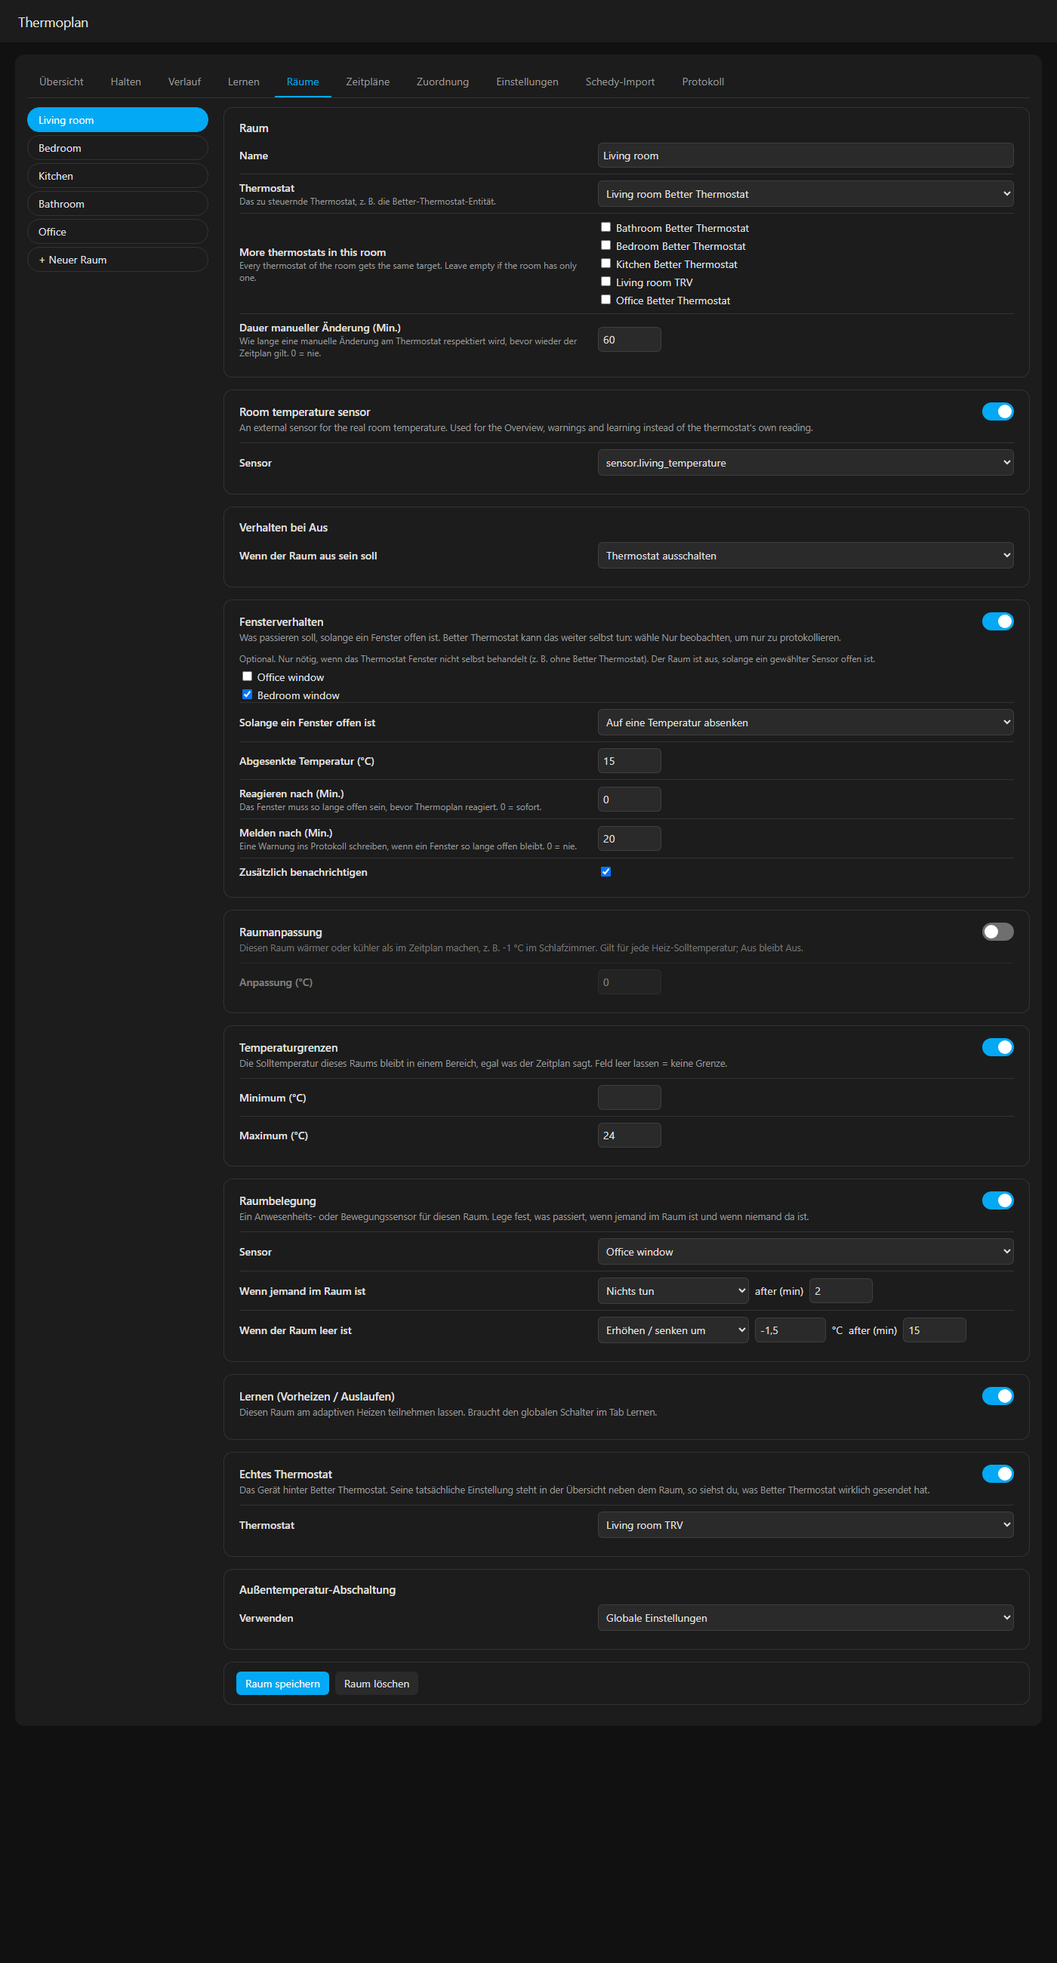
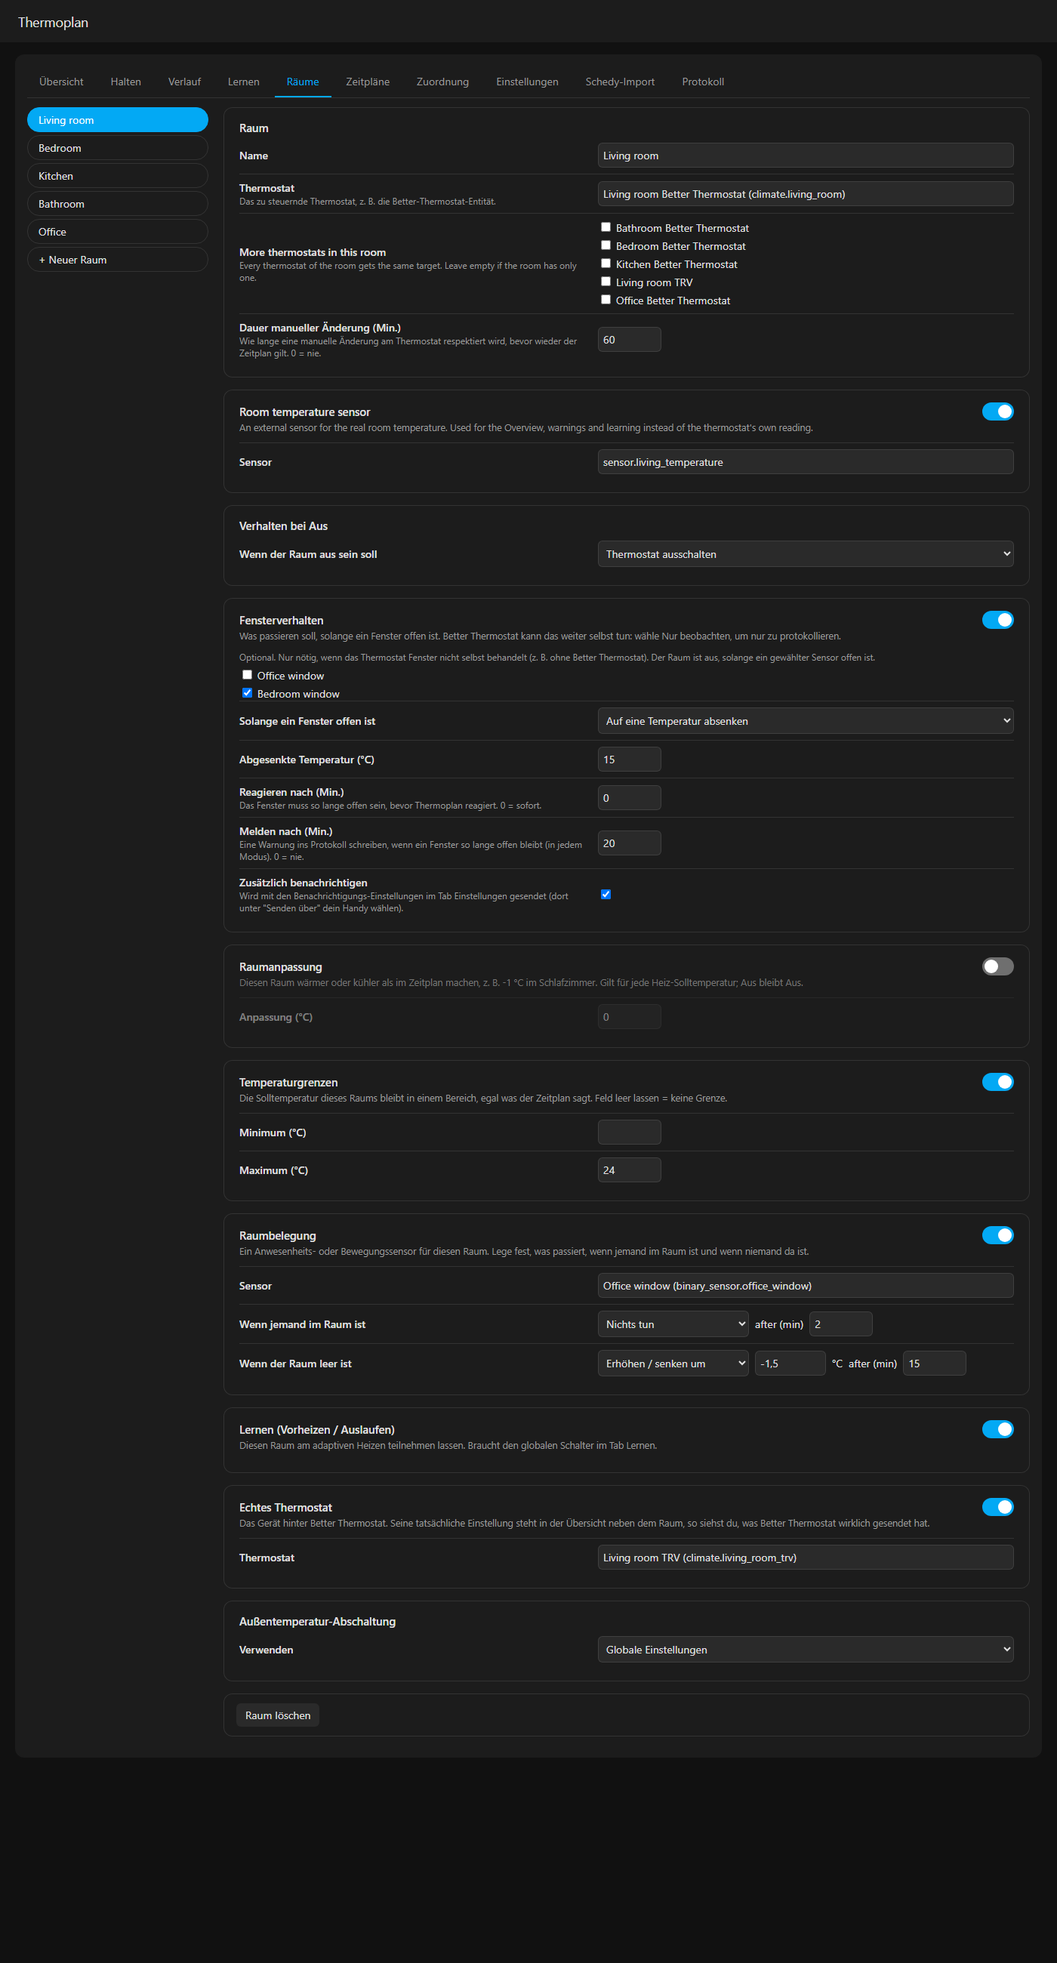
UI polish: searchable pickers, save button only when changed, clearer labels, plans overflow fix

diff --git a/custom_components/thermoplan/frontend/thermoplan-settings.js b/custom_components/thermoplan/frontend/thermoplan-settings.js
@@ -34,7 +34,7 @@ addStrings(
     fd_workday: "Workday sensor", fd_workday_help: "The Workday integration. Off on a normal working weekday means a holiday; weekends are not affected.",
     fd_holiday: "Holiday sensor", fd_holiday_help: "A binary sensor that is on on public holidays.",
     fd_calendar: "Calendar", fd_calendar_help: "A free day when an event with one of these titles is active (comma separated, empty = any event).",
-    fd_match: "Event title", fd_weekday: "Use the blocks of",
+    fd_match: "Event title", fd_weekday: "Free days follow the schedule of", fd_weekday_help: "On a free day the room uses the blocks of this weekday, e.g. Sunday.",
     wd_0: "Monday", wd_1: "Tuesday", wd_2: "Wednesday", wd_3: "Thursday", wd_4: "Friday", wd_5: "Saturday", wd_6: "Sunday",
     ca: "Away from calendar", ca_help: "Away while a calendar event with this title is active, until the event ends. Use a different title than for free days (e.g. Vacation versus Day off) so being at home on a day off does not count as away.",
     ca_entity: "Calendar",
@@ -86,7 +86,7 @@ addStrings(
     fd_workday: "Arbeitstag-Sensor", fd_workday_help: "Die Workday-Integration. Aus an einem normalen Arbeitstag bedeutet Feiertag; Wochenenden sind nicht betroffen.",
     fd_holiday: "Feiertag-Sensor", fd_holiday_help: "Ein Binärsensor, der an Feiertagen an ist.",
     fd_calendar: "Kalender", fd_calendar_help: "Ein freier Tag, wenn ein Termin mit einem dieser Titel aktiv ist (kommagetrennt, leer = jeder Termin).",
-    fd_match: "Termintitel", fd_weekday: "Blöcke verwenden von",
+    fd_match: "Termintitel", fd_weekday: "Freie Tage folgen dem Zeitplan von", fd_weekday_help: "An einem freien Tag nutzt der Raum die Blöcke dieses Wochentags, z. B. Sonntag.",
     wd_0: "Montag", wd_1: "Dienstag", wd_2: "Mittwoch", wd_3: "Donnerstag", wd_4: "Freitag", wd_5: "Samstag", wd_6: "Sonntag",
     ca: "Abwesend per Kalender", ca_help: "Abwesend, solange ein Kalendertermin mit diesem Titel aktiv ist, bis der Termin endet. Nimm einen anderen Titel als für freie Tage (z. B. Urlaub statt Frei), damit ein freier Tag zuhause nicht als abwesend zählt.",
     ca_entity: "Kalender",
@@ -160,13 +160,53 @@ function entityIds(hass, prefix, filter = () => true) {
     .sort((a, b) => (hass.states[a].attributes.friendly_name || a).localeCompare(hass.states[b].attributes.friendly_name || b));
 }
 
+// A picker you can type into: the browser filters the list while you type (name or entity id).
+let pickerCount = 0;
 export function entitySelect(hass, prefix, value, onchange, filter) {
   const ids = entityIds(hass, prefix, filter);
   if (value && !ids.includes(value)) ids.unshift(value);
-  return h("select", { onchange: (ev) => onchange(ev.target.value || null) },
-    h("option", { value: "" }, "—"),
-    ...ids.map((id) => h("option", { value: id, selected: id === value, title: id },
-      hass.states[id]?.attributes?.friendly_name || id)));
+  const name = (id) => hass.states[id]?.attributes?.friendly_name || id;
+  const label = (id) => (name(id) === id ? id : `${name(id)} (${id})`);
+  const listId = `thermoplan-picker-${++pickerCount}`;
+  const input = h("input", { type: "text", value: value ? label(value) : "", placeholder: "—", autocomplete: "off",
+    onfocus: (ev) => ev.target.select(),
+    onchange: (ev) => {
+      const text = ev.target.value.trim().toLowerCase();
+      if (!text) { onchange(null); return; }
+      const hit = ids.find((id) => label(id).toLowerCase() === text || id.toLowerCase() === text || name(id).toLowerCase() === text);
+      if (hit) { ev.target.value = label(hit); onchange(hit); } else ev.target.value = value ? label(value) : "";
+    } });
+  input.setAttribute("list", listId);
+  return h("span", { style: "display:block;flex:1 1 160px;min-width:0" }, input,
+    h("datalist", { id: listId }, ...ids.map((id) => h("option", { value: label(id) }))));
+}
+
+// Save button that only shows when something changed; after saving it confirms and goes away again.
+const liveBars = new Set();
+export function refreshSaveBars() { for (const update of [...liveBars]) update(); }
+export function markSaved(state, key, draft) { (state.baseline ||= {})[key] = { ref: draft, snap: JSON.stringify(draft) }; }
+export function saveBar(state, key, draft, label, onSave, ...extra) {
+  state.baseline ||= {};
+  if (!state.baseline[key] || state.baseline[key].ref !== draft) markSaved(state, key, draft);
+  const msg = h("span", { class: "msg" });
+  const button = h("button", { class: "btn", onclick: onSave }, label);
+  const bar = h("div", { class: "savebar row" }, button, ...extra, msg);
+  let seen = false, timer = null;
+  const update = () => {
+    if (bar.isConnected) seen = true; else if (seen) { liveBars.delete(update); return; }
+    const dirty = JSON.stringify(draft) !== state.baseline[key].snap;
+    button.style.display = dirty ? "" : "none";
+    msg.textContent = state.message || "";
+    msg.className = "msg" + (state.error ? " error" : "");
+    bar.style.display = dirty || state.message || extra.length ? "" : "none";
+    if (state.message && !state.error && !dirty && !timer) {
+      const shown = state.message;
+      timer = setTimeout(() => { timer = null; if (state.message === shown) { state.message = null; update(); } }, 2500);
+    }
+  };
+  liveBars.add(update);
+  update();
+  return bar;
 }
 
 function personStates(hass, T) {
@@ -275,13 +315,14 @@ export function renderSettings({ state, T, call, getHass, render }) {
   const delayCard = featureCard(T("pd"), T("pd_help"), !!delayFeat.enabled, (v) => { delayFeat.enabled = v; render(); },
     fieldRow(T("pd_minutes"), null, h("input", { type: "number", min: 1, step: 1, value: delayFeat.minutes, onchange: (ev) => { delayFeat.minutes = Math.max(1, Math.round(Number(ev.target.value) || 1)); } })));
 
+  const holidayLike = (st) => "workdays" in st.attributes || /holiday|feiertag|workday|arbeitstag/i.test(`${st.entity_id} ${st.attributes.friendly_name || ""}`);
   const wd = F("workday"), hol = F("holiday"), cal = F("free_calendar"), fday = F("free_day");
   const freeCard = card(T("fd"), T("fd_help"),
     sourceRow(T("fd_workday"), T("fd_workday_help"), wd,
       entitySelect(hass, "binary_sensor.", wd.entity, (v) => { wd.entity = v; }, (st) => "workdays" in st.attributes)),
-    sourceRow(T("fd_holiday"), T("fd_holiday_help"), hol, entitySelect(hass, "binary_sensor.", hol.entity, (v) => { hol.entity = v; })),
+    sourceRow(T("fd_holiday"), T("fd_holiday_help"), hol, entitySelect(hass, "binary_sensor.", hol.entity, (v) => { hol.entity = v; }, holidayLike)),
     sourceRow(T("fd_calendar"), T("fd_calendar_help"), cal, entitySelect(hass, "calendar.", cal.entity, (v) => { cal.entity = v; }), textInput(cal, "match")),
-    fieldRow(T("fd_weekday"), null, h("select", { class: "short", onchange: (ev) => { fday.weekday = Number(ev.target.value); } },
+    fieldRow(T("fd_weekday"), T("fd_weekday_help"), h("select", { class: "short", onchange: (ev) => { fday.weekday = Number(ev.target.value); } },
       ...[0, 1, 2, 3, 4, 5, 6].map((i) => h("option", { value: i, selected: fday.weekday === i }, T("wd_" + i))))));
 
   const away = F("calendar_away");
@@ -313,15 +354,12 @@ export function renderSettings({ state, T, call, getHass, render }) {
       h("option", { value: "" }, T("notify_persistent")),
       ...[...new Set([...notifyServices.map((n) => `notify.${n}`), ...(s.notify_service ? [s.notify_service] : [])])].map((id) => h("option", { value: id, selected: id === s.notify_service }, id)))));
 
-  const saveBar = h("div", { class: "savebar row" },
-    h("button", { class: "btn", onclick: async () => {
-      await call({ type: "thermoplan/set_settings", settings: s }, "saved");
-      state.settingsDraft = null;
-      render();
-    } }, T("save_settings")),
-    state.message ? h("span", { class: "msg" + (state.error ? " error" : "") }, state.message) : null);
+  const saveBarEl = saveBar(state, "settings", s, T("save_settings"), async () => {
+    await call({ type: "thermoplan/set_settings", settings: s }, "saved");
+    if (!state.error) { state.settingsDraft = null; render(); }
+  });
 
-  return h("div", {}, seasonCard, awayCard, presenceCard, delayCard, freeCard, calAwayCard, cutoffCard, forecastCard, boostCard, warnCard, notifyCard, saveBar);
+  return h("div", {}, seasonCard, awayCard, presenceCard, delayCard, freeCard, calAwayCard, cutoffCard, forecastCard, boostCard, warnCard, notifyCard, saveBarEl);
 }
 
 export function renderImport({ state, T, getHass, load, render }) {

diff --git a/custom_components/thermoplan/frontend/thermoplan-rooms.js b/custom_components/thermoplan/frontend/thermoplan-rooms.js
@@ -1,6 +1,6 @@
 // Rooms tab: add, edit and remove rooms (thermostats).
 import { addStrings, h } from "./thermoplan-common.js";
-import { card, fieldRow, entitySelect, featureCard } from "./thermoplan-settings.js";
+import { card, fieldRow, entitySelect, featureCard, saveBar, markSaved } from "./thermoplan-settings.js";
 
 addStrings(
   {
@@ -32,8 +32,8 @@ addStrings(
     rf_window: "Window handling", rf_window_help: "What to do while a window is open. Better Thermostat can keep doing this itself: choose Only observe to just record what happens.",
     rf_window_mode: "While a window is open", win_off: "Switch the thermostat off", win_lower: "Lower to a temperature", win_observe: "Only observe (log)",
     rf_window_target: "Lowered temperature (°C)", rf_window_delay: "Act after (min)", rf_window_delay_help: "The window must be open this long before Thermoplan reacts. 0 = at once.",
-    rf_window_long: "Report after (min)", rf_window_long_help: "Write a warning to the log when a window stays open this long. 0 = never.",
-    rf_window_notify: "Also send a notification",
+    rf_window_long: "Report after (min)", rf_window_long_help: "Write a warning to the log when a window stays open this long (works in every mode). 0 = never.",
+    rf_window_notify: "Also send a notification", rf_window_notify_help: "Sent with the notification settings on the Settings tab (pick your phone there under \"Send via\").", rf_window_notify_off: "Notifications are switched off on the Settings tab, so nothing is sent yet.",
     rf_real: "Real thermostat", rf_real_help: "The device behind Better Thermostat. Its actual setting is shown next to the room on the Overview, so you can see what Better Thermostat really sent.",
     rf_real_entity: "Thermostat",
     rf_more_climates: "Weitere Thermostate in diesem Raum", rf_more_climates_help: "Jedes Thermostat des Raums bekommt dieselbe Zieltemperatur. Leer lassen, wenn der Raum nur eines hat.",
@@ -72,8 +72,8 @@ addStrings(
     rf_window: "Fensterverhalten", rf_window_help: "Was passieren soll, solange ein Fenster offen ist. Better Thermostat kann das weiter selbst tun: wähle Nur beobachten, um nur zu protokollieren.",
     rf_window_mode: "Solange ein Fenster offen ist", win_off: "Thermostat ausschalten", win_lower: "Auf eine Temperatur absenken", win_observe: "Nur beobachten (Protokoll)",
     rf_window_target: "Abgesenkte Temperatur (°C)", rf_window_delay: "Reagieren nach (Min.)", rf_window_delay_help: "Das Fenster muss so lange offen sein, bevor Thermoplan reagiert. 0 = sofort.",
-    rf_window_long: "Melden nach (Min.)", rf_window_long_help: "Eine Warnung ins Protokoll schreiben, wenn ein Fenster so lange offen bleibt. 0 = nie.",
-    rf_window_notify: "Zusätzlich benachrichtigen",
+    rf_window_long: "Melden nach (Min.)", rf_window_long_help: "Eine Warnung ins Protokoll schreiben, wenn ein Fenster so lange offen bleibt (in jedem Modus). 0 = nie.",
+    rf_window_notify: "Zusätzlich benachrichtigen", rf_window_notify_help: "Wird mit den Benachrichtigungs-Einstellungen im Tab Einstellungen gesendet (dort unter \"Senden über\" dein Handy wählen).", rf_window_notify_off: "Benachrichtigungen sind im Tab Einstellungen ausgeschaltet, deshalb wird noch nichts gesendet.",
     rf_real: "Echtes Thermostat", rf_real_help: "Das Gerät hinter Better Thermostat. Seine tatsächliche Einstellung steht in der Übersicht neben dem Raum, so siehst du, was Better Thermostat wirklich gesendet hat.",
     rf_real_entity: "Thermostat",
   },
@@ -142,10 +142,7 @@ export function renderRooms({ state, T, call, getHass, load, render }) {
     const cards = [
       card(T("room_general"), null,
         fieldRow(T("room_name"), null, h("input", { type: "text", value: d.name, oninput: (ev) => { d.name = ev.target.value; } })),
-        fieldRow(T("room_climate"), T("room_climate_help"), h("select", { onchange: (ev) => { d.climate_entity = ev.target.value; } },
-          h("option", { value: "" }, T("choose")),
-          ...[...new Set([...climateIds, d.climate_entity].filter(Boolean))].map((id) => h("option", { value: id, selected: id === d.climate_entity, title: id },
-            hass.states[id]?.attributes?.friendly_name || id)))),
+        fieldRow(T("room_climate"), T("room_climate_help"), entitySelect(hass, "climate.", d.climate_entity, (v) => { d.climate_entity = v || ""; render(); })),
         fieldRow(T("rf_more_climates"), T("rf_more_climates_help"), h("div", { style: "display:flex;flex-direction:column;gap:4px;max-height:160px;overflow:auto" },
           ...climateIds.filter((id) => id !== d.climate_entity).map((id) => h("label", {},
             h("input", { type: "checkbox", checked: d.extra_climates.includes(id), onchange: (ev) => {
@@ -163,7 +160,7 @@ export function renderRooms({ state, T, call, getHass, load, render }) {
         d.window_mode === "lower" ? fieldRow(T("rf_window_target"), null, num("window_target", { step: 0.5, min: 4 })) : null,
         d.window_mode !== "observe" ? fieldRow(T("rf_window_delay"), T("rf_window_delay_help"), num("window_open_delay", { min: 0, step: 1 })) : null,
         fieldRow(T("rf_window_long"), T("rf_window_long_help"), num("window_too_long", { min: 0, step: 1 })),
-        fieldRow(T("rf_window_notify"), null, h("input", { type: "checkbox", checked: !!d.window_notify, onchange: (ev) => { d.window_notify = ev.target.checked; } }))),
+        fieldRow(T("rf_window_notify"), state.data.settings.notify_enabled ? T("rf_window_notify_help") : T("rf_window_notify_off"), h("input", { type: "checkbox", checked: !!d.window_notify, onchange: (ev) => { d.window_notify = ev.target.checked; } }))),
       featureCard(T("rf_adjust"), T("rf_adjust_help"), !!d.adjust_enabled, (v) => { d.adjust_enabled = v; render(); },
         fieldRow(T("rf_adjust_value"), null, num("adjust", { step: 0.5 }))),
       featureCard(T("rf_limits"), T("rf_limits_help"), !!d.limits_enabled, (v) => { d.limits_enabled = v; render(); },
@@ -185,8 +182,7 @@ export function renderRooms({ state, T, call, getHass, load, render }) {
           fieldRow(T("r_on_after"), null, num("on_after_minutes", { min: 0, step: 5 })),
           fieldRow(T("r_offset"), null, num("offset", { step: 0.5 })),
         ] : [])),
-      h("div", { class: "savebar row" },
-        h("button", { class: "btn", onclick: async () => {
+      saveBar(state, "room", d, T("save_room"), async () => {
           const data = {
             climate_entity: d.climate_entity, off_mode: d.off_mode, off_target: Number(d.off_target ?? 4.5),
             override_minutes: Math.round(Number(d.override_minutes ?? 60)), window_sensors: d.window_sensors,
@@ -211,6 +207,7 @@ export function renderRooms({ state, T, call, getHass, load, render }) {
             const result = await hass.callWS({ type: "thermoplan/save_room", ...(state.roomId !== "new" ? { room_id: state.roomId } : {}),
               name: (d.name || "").trim(), data });
             state.roomId = result.room_id;
+            markSaved(state, "room", d);
             state.message = T("room_saved");
             state.error = false;
           } catch (err) {
@@ -219,14 +216,13 @@ export function renderRooms({ state, T, call, getHass, load, render }) {
           }
           render();
           setTimeout(load, 1500); // the entry reloads after a room change
-        } }, T("save_room")),
-        state.roomId !== "new" ? h("button", { class: "btn secondary", onclick: async () => {
+        },
+        ...(state.roomId !== "new" ? [h("button", { class: "btn secondary", onclick: async () => {
           if (!confirm(T("confirm_delete_room"))) return;
           await call({ type: "thermoplan/delete_room", room_id: state.roomId });
           state.roomId = null; state.roomDraft = null;
           setTimeout(load, 1500);
-        } }, T("delete_room")) : null,
-        state.message ? h("span", { class: "msg" + (state.error ? " error" : "") }, state.message) : null),
+        } }, T("delete_room"))] : [])),
     ];
     detail = h("div", {}, ...cards);
   }

diff --git a/custom_components/thermoplan/frontend/thermoplan-editor.js b/custom_components/thermoplan/frontend/thermoplan-editor.js
@@ -1,6 +1,6 @@
 // Schedule, profile and plan editor (used by the panel).
 import { tr, addStrings, h } from "./thermoplan-common.js";
-import { renderSettings, renderImport, SETTINGS_STYLE } from "./thermoplan-settings.js";
+import { renderSettings, renderImport, SETTINGS_STYLE, saveBar, refreshSaveBars } from "./thermoplan-settings.js";
 import { renderRooms } from "./thermoplan-rooms.js";
 import { renderLog, LOG_STYLE } from "./thermoplan-log.js";
 import { renderHistory, HISTORY_STYLE } from "./thermoplan-history.js";
@@ -47,7 +47,7 @@ export const EDITOR_STYLE = SETTINGS_STYLE + LOG_STYLE + SCHEDULE_STYLE + HISTOR
     color: var(--secondary-text-color); border-bottom: 2px solid transparent; }
   .tab.active { color: var(--primary-color); border-bottom-color: var(--primary-color); }
   .split { display: grid; grid-template-columns: 240px minmax(0, 1fr); gap: 20px; }
-  .plan-grid { display: grid; grid-template-columns: repeat(auto-fill, minmax(340px, 1fr)); gap: 16px; }
+  .plan-grid { display: grid; grid-template-columns: repeat(auto-fill, minmax(min(340px, 100%), 1fr)); gap: 16px; }
   .plan-grid .card { margin-bottom: 0; }
   .plan-row { display: grid; grid-template-columns: minmax(120px, 1fr) minmax(0, 1.4fr); gap: 8px; align-items: center; padding: 6px 0;
     border-top: 1px solid var(--divider-color); }
@@ -181,10 +181,8 @@ export function mountEditor(root, getHass) {
     let detail = h("div", {});
     if (state.draft) {
       detail = h("div", {}, renderScheduleEditor({ state, T }),
-        h("div", { class: "savebar row" },
-          h("button", { class: "btn", onclick: save }, T("save")),
-          !state.isNew ? h("button", { class: "btn secondary", onclick: remove }, T("delete")) : null,
-          state.message ? h("span", { class: "msg" + (state.error ? " error" : "") }, state.message) : null));
+        saveBar(state, "schedule", state.draft, T("save"), save,
+          ...(!state.isNew ? [h("button", { class: "btn secondary", onclick: remove }, T("delete"))] : [])));
     }
     return h("div", { class: "split" }, list, detail);
   }
@@ -285,7 +283,10 @@ export function mountEditor(root, getHass) {
       : state.tab === "learning" ? renderLearning(ctx)
       : renderSchedules();
     root.replaceChildren(content);
+    refreshSaveBars();
   }
+  root.addEventListener("input", () => setTimeout(refreshSaveBars, 0));
+  root.addEventListener("change", () => setTimeout(refreshSaveBars, 0));
 
   return {
     setTab(tab) { state.tab = tab; state.message = null; if (tab === "log") state.logLoaded = false; if (tab === "learning") state.learnLoaded = false; // always show fresh events

diff --git a/custom_components/thermoplan/frontend/thermoplan-learning.js b/custom_components/thermoplan/frontend/thermoplan-learning.js
@@ -1,6 +1,6 @@
 // Learning tab: adaptive preheating and coasting, and what was learned about each room.
 import { addStrings, h } from "./thermoplan-common.js";
-import { card, fieldRow, featureCard, toggle } from "./thermoplan-settings.js";
+import { card, fieldRow, featureCard, toggle, saveBar } from "./thermoplan-settings.js";
 
 addStrings(
   {
@@ -59,8 +59,8 @@ export function renderLearning({ state, T, getHass, load, render }) {
   }
   const data = state.learn;
   if (!data) return h("div", { class: "empty" }, T("loading"));
-  const cfg = { enabled: false, preheat: true, coast: true, max_lead: 120, coast_margin: 0.3, min_samples: 3, coast_min_block: 45, ...(state.learnDraft || data.settings) };
-  state.learnDraft = cfg;
+  if (!state.learnDraft) state.learnDraft = { enabled: false, preheat: true, coast: true, max_lead: 120, coast_margin: 0.3, min_samples: 3, coast_min_block: 45, ...data.settings };
+  const cfg = state.learnDraft;
 
   const save = async () => {
     const settings = JSON.parse(JSON.stringify(state.data.settings));
@@ -81,8 +81,7 @@ export function renderLearning({ state, T, getHass, load, render }) {
     sw(T("ln_preheat"), "preheat"), sw(T("ln_coast"), "coast"),
     numRow(T("ln_max_lead"), "max_lead", { min: 10, step: 10 }), numRow(T("ln_samples"), "min_samples", { min: 1, step: 1 }),
     numRow(T("ln_margin"), "coast_margin", { min: 0, step: 0.1 }), numRow(T("ln_min_block"), "coast_min_block", { min: 0, step: 5 }),
-    h("div", { class: "row", style: "margin-top:10px" }, h("button", { class: "btn", onclick: save }, T("ln_save")),
-      state.message ? h("span", { class: "msg" + (state.error ? " error" : "") }, state.message) : null));
+    saveBar(state, "learning", cfg, T("ln_save"), save));
 
   const time = (iso) => new Date(iso).toLocaleString(hass.language || undefined, { month: "2-digit", day: "2-digit", hour: "2-digit", minute: "2-digit" });
   const roomCard = (r) => {
